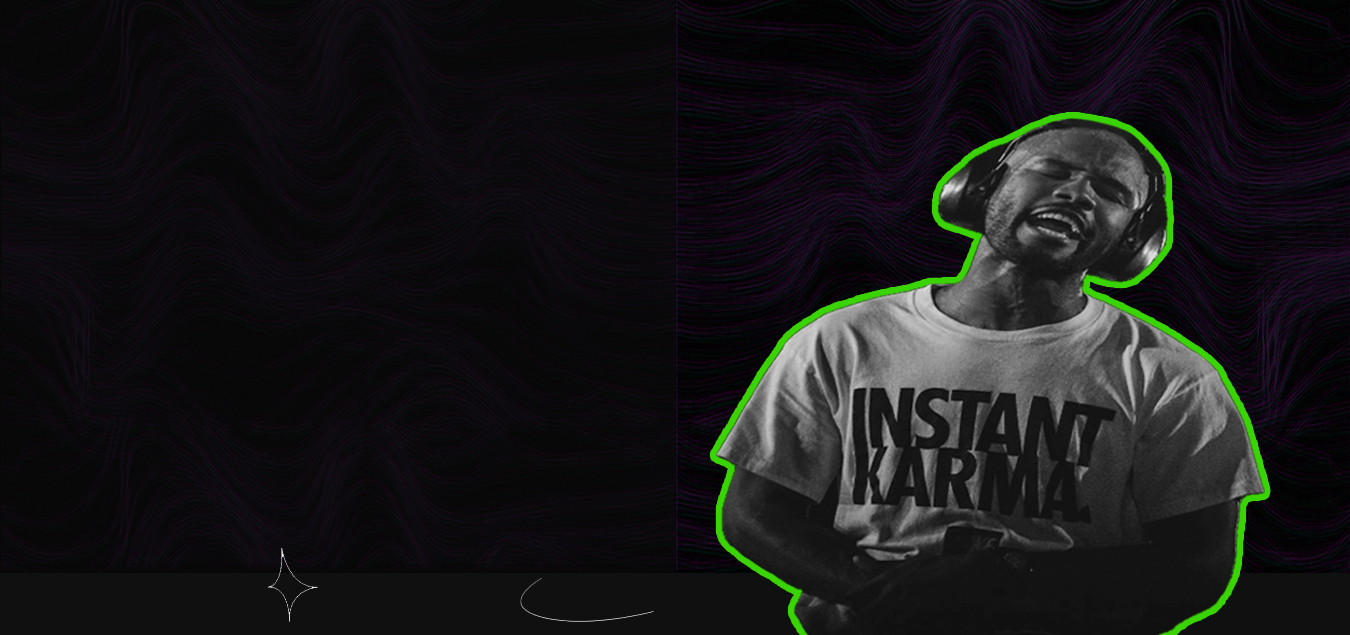
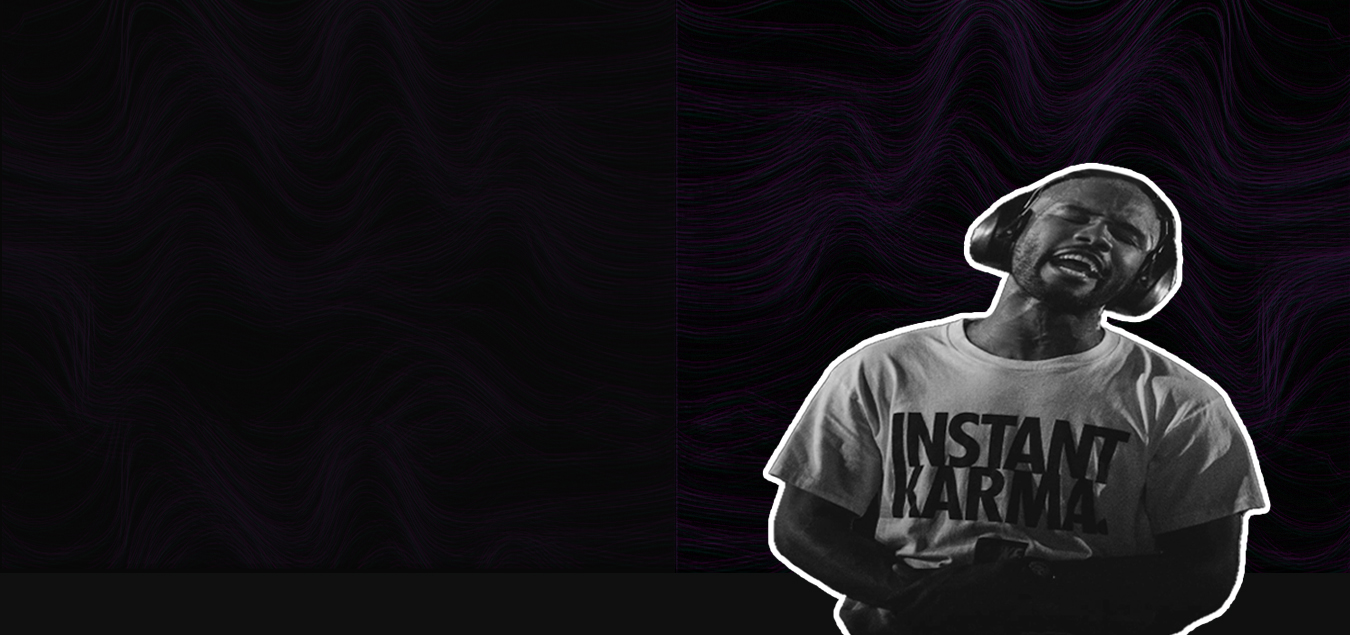
finished with the landing page: modified buttons added some animations

Changed region(s): [[0.5289, 0.1795, 0.9644, 1.0], [0.84, 0.9575, 0.9022, 1.0]]

diff --git a/public/css/style.css b/public/css/style.css
@@ -30,11 +30,14 @@
 /******************************************
 /* BASE STYLES
 /*******************************************/
+html {
+  background-color: #0f1010;
+  scroll-behavior: smooth;
+}
 .log-container {
   width: 100%;
   margin-inline: 0;
 }
-
 a {
   text-decoration: none;
 }
@@ -43,7 +46,6 @@ a {
   background-position: center;
   background-size: cover;
   background-repeat: no-repeat;
-  height: 40rem;
 }
 .index-img-container {
   background-image: url("../imgs/mobileRight.jpg");
@@ -84,7 +86,6 @@ a {
 .register {
   text-transform: uppercase;
 }
-
 /******************************************
 /* LAYOUT
 /*******************************************/
@@ -113,14 +114,36 @@ a {
 /*******************************************/
 
 .log-in {
-  background: linear-gradient(to left, #39d403, #2eb900 50%);
-  border-radius: 1%;
+  background: white;
+  border-radius: 3.125rem;
 }
 .register {
-  border: 0.188rem solid white;
-  padding-block: 0.938rem;
-  border-radius: 1%;
+  border: 0.125rem solid white;
+  color: white;
+  padding: 0.75rem 1.5rem;
+  border-radius: 0.2rem;
 }
+.animation-fc {
+  text-shadow: 0.125rem 0.125rem 0.25rem #000000;
+  animation: animation-fc 7s ease-in-out;
+  animation-iteration-count: infinite;
+}
+.animation-bg {
+  animation: animation-bg 7s ease-in-out;
+  animation-iteration-count: infinite;
+}
+@keyframes animation-fc{
+  0%{color: white;}
+  50%{color: #6622d4;}
+  100%{color: white;}
+}
+@keyframes animation-bg{
+  0%{background-color: white; color: black;}
+  50%{background-color: #6622d4; color:white;}
+  100%{background-color: white; color: black;}
+}
+
+
 
 /******************************************
 /* MEDIA QUERY
@@ -132,7 +155,7 @@ a {
 /* BASE STYLES
 /*******************************************/
  .log-container {
-  background-image: url("../imgs/Index.jpg");
+  background-image: url("../imgs/Index2.jpg");
  }
  .h1-index,
  .index-p {
@@ -142,7 +165,7 @@ a {
 /* LAYOUT
 /*******************************************/
 .index-img-container {
-  height: auto;
+  display: none;
 }
 .log-box {
   flex-direction: row !important;
@@ -158,7 +181,6 @@ a {
   padding-block: 0.5rem;
   font-size: var(--fs-300);
 }
-
 .arrow-index {
   padding-left: 1rem;
 }
